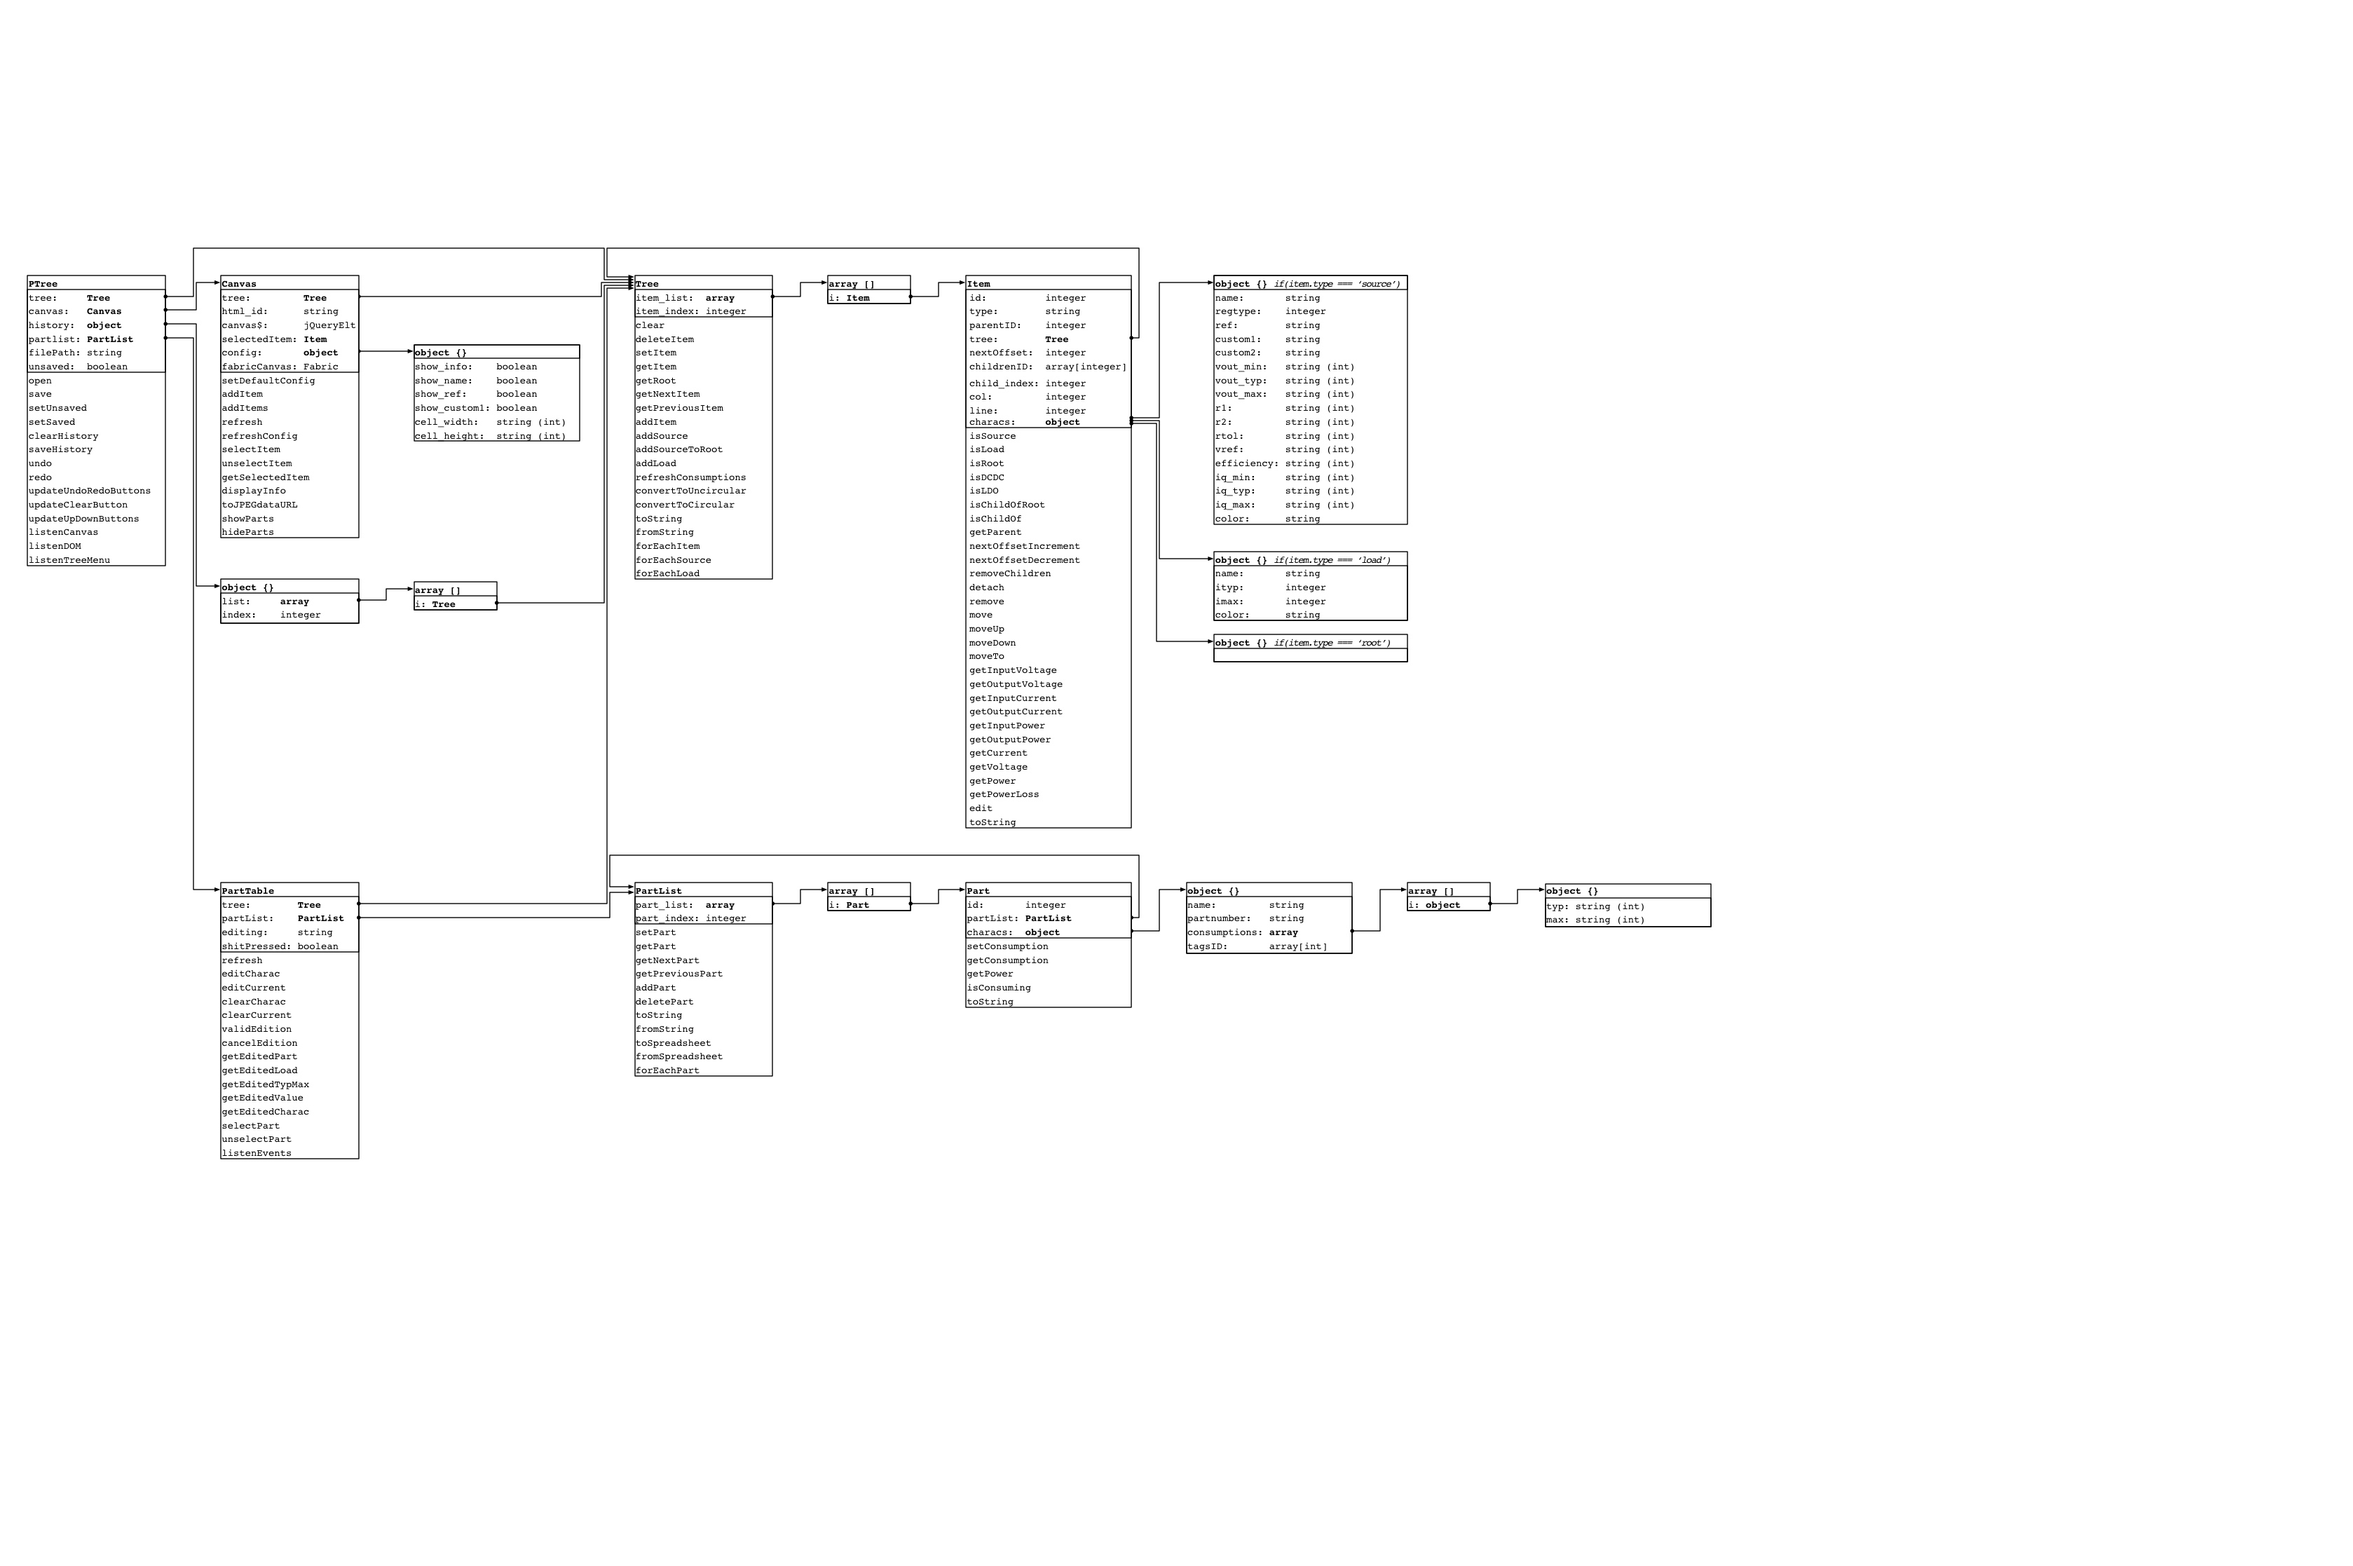
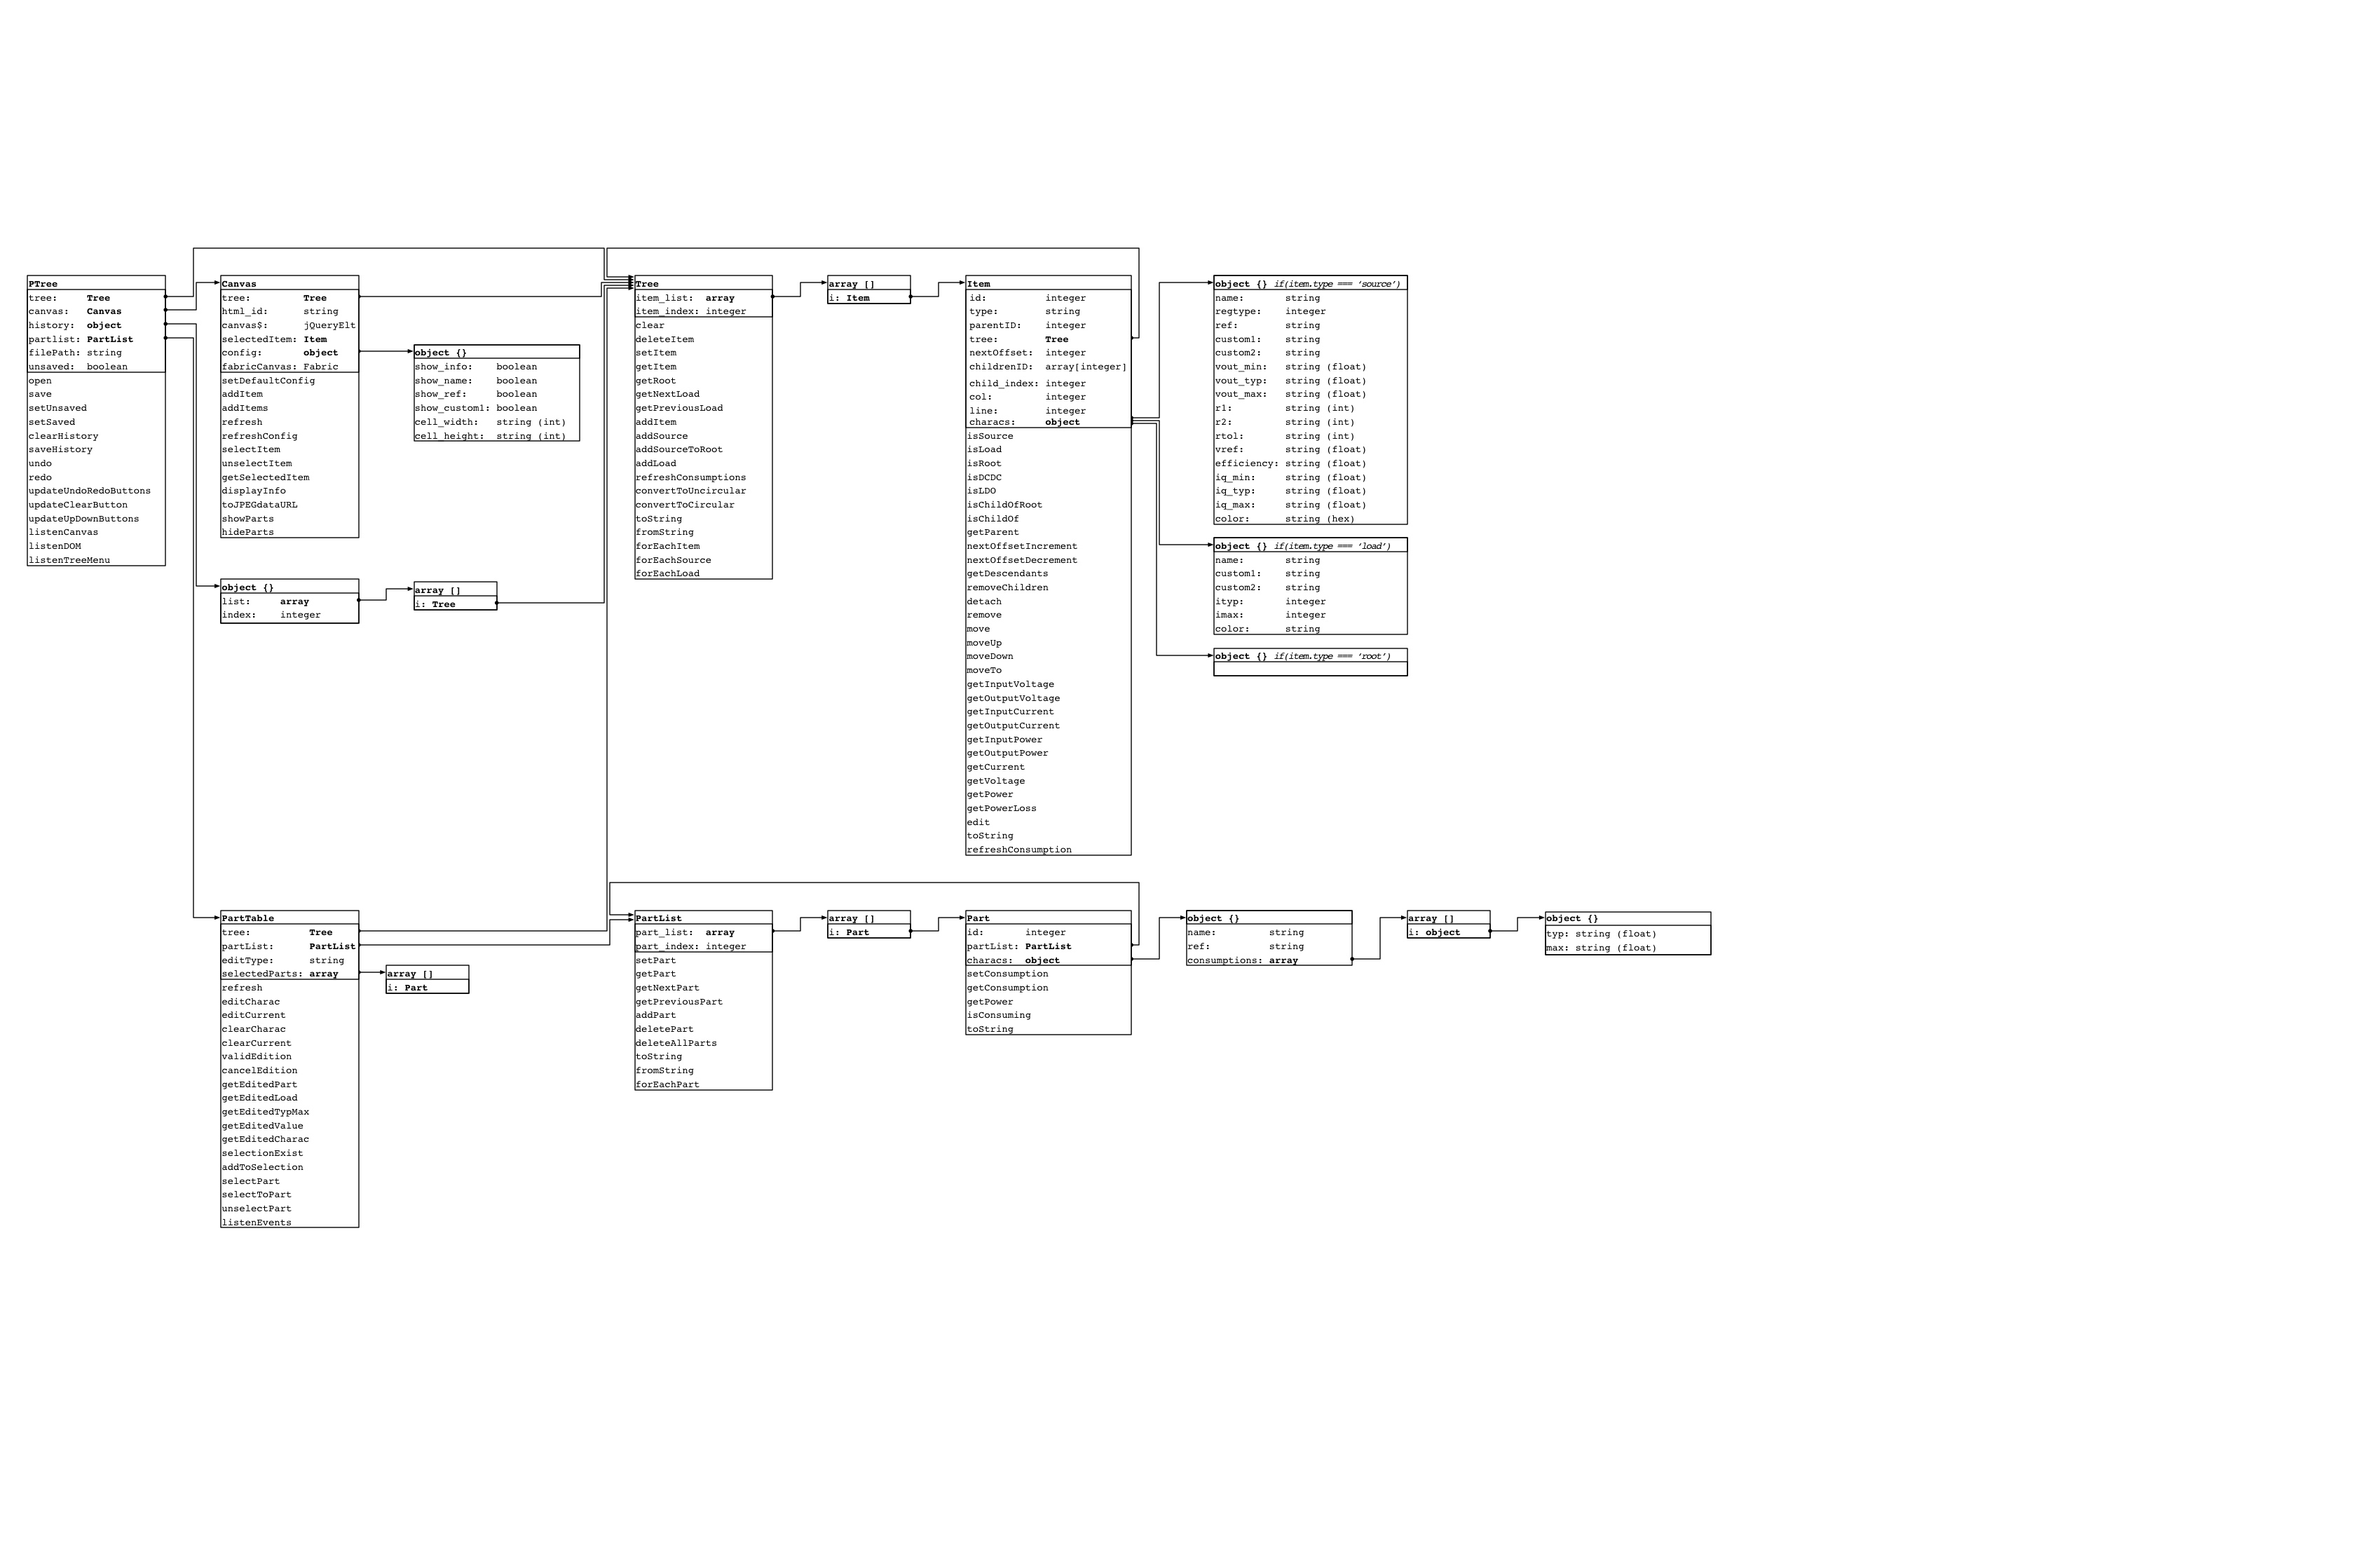
schematic update

diff --git a/js/obj.PartTable.js b/js/obj.PartTable.js
@@ -7,7 +7,7 @@
 var PartTable = function() {
    this.partList      = new PartList();
    this.tree          = new Tree();
-   this.editing       = null;
+   this.editType      = null;
    this.selectedParts = [];
 
    this.listenEvents();
@@ -71,7 +71,7 @@ PartTable.prototype.refresh = function() {
 // print a UI to edit a charac
 PartTable.prototype.editCharac = function(part, charac) {
    // if a previous element whas in edition
-   if ('charac' === this.editing) {
+   if ('charac' === this.editType) {
       // get the previous edited element
       let editedPart    = this.getEditedPart();
       let editedCharac  = this.getEditedCharac();
@@ -86,7 +86,7 @@ PartTable.prototype.editCharac = function(part, charac) {
    this.selectPart(part);
 
    // mark as editing
-   this.editing = 'charac';
+   this.editType = 'charac';
 
    // print an input element
    var value      = part.characs[charac];
@@ -101,7 +101,7 @@ PartTable.prototype.editCharac = function(part, charac) {
 // print a UI to edit a current
 PartTable.prototype.editCurrent = function(part, load, typmax) {
    // if a previous element whas in edition
-   if ('current' === this.editing) {
+   if ('current' === this.editType) {
       // get the previous edited element
       let editedPart   = this.getEditedPart();
       let editedLoad   = this.getEditedLoad();
@@ -116,7 +116,7 @@ PartTable.prototype.editCurrent = function(part, load, typmax) {
    this.selectPart(part);
 
    // mark as editing
-   this.editing = 'current';
+   this.editType = 'current';
 
    // print an input element
    var value      = part.getConsumption(load,typmax).toString();
@@ -144,7 +144,7 @@ PartTable.prototype.clearCharac = function(validate){
    $('.edition').parent().html(value);
    $('.partTable').trigger('update');
 
-   this.editing = null;
+   this.editType = null;
 };
 
 
@@ -171,16 +171,16 @@ PartTable.prototype.clearCurrent = function(validate){
    $(`tr[data-partid=${part.id}] > td.td_power.td_max`).html(round(power.max,3));
    $('.partTable').trigger('update');
 
-   this.editing = null;
+   this.editType = null;
 };
 
 
 // validate the occuring edition
 PartTable.prototype.validateEdition = function() {
-   if ('charac' === this.editing) {
+   if ('charac' === this.editType) {
       this.clearCharac(true);
    }
-   else if ('current' === this.editing) {
+   else if ('current' === this.editType) {
       this.clearCurrent(true);
    }
 };
@@ -188,10 +188,10 @@ PartTable.prototype.validateEdition = function() {
 
 // cancel the occuring edition
 PartTable.prototype.cancelEdition = function() {
-   if ('charac' === this.editing) {
+   if ('charac' === this.editType) {
       this.clearCharac(false);
    }
-   else if ('current' === this.editing) {
+   else if ('current' === this.editType) {
       this.clearCurrent(false);
    }
    this.unselectPart();
@@ -224,7 +224,7 @@ PartTable.prototype.getEditedTypMax = function() {
 PartTable.prototype.getEditedValue = function() {
    var value = $('.edition').val();
 
-   if ('current' === this.editing) {
+   if ('current' === this.editType) {
       value = parseFloat(value);
    }
 
@@ -241,6 +241,24 @@ PartTable.prototype.getEditedCharac = function() {
 // Return true if at least one part is selected
 PartTable.prototype.selectionExist = function() {
    return (this.selectedParts.length > 0);
+};
+
+
+// select the given part (add to the selection)
+PartTable.prototype.addToSelection = function(part) {
+   // validate any editon before selection
+   this.validateEdition();
+
+   // show the remove button differently if there was a seletion or not
+   if(this.selectionExist()) {
+      $('.removePart').show();
+   }
+   else {
+      $('.removePart').fadeIn(150);
+   }
+
+   this.selectedParts.push(part);
+   $(`tr[data-partid=${part.id}]`).addClass('selected');
 };
 
 
@@ -264,23 +282,6 @@ PartTable.prototype.selectPart = function(part) {
 
 };
 
-
-// select the given part (add to the selection)
-PartTable.prototype.addToSelection = function(part) {
-   // validate any editon before selection
-   this.validateEdition();
-
-   // show the remove button differently if there was a seletion or not
-   if(this.selectionExist()) {
-      $('.removePart').show();
-   }
-   else {
-      $('.removePart').fadeIn(150);
-   }
-
-   this.selectedParts.push(part);
-   $(`tr[data-partid=${part.id}]`).addClass('selected');
-};
 
 // select all parts between the given and the selected
 PartTable.prototype.selectToPart = function(part) {
@@ -558,20 +559,20 @@ PartTable.prototype.listenEvents = function() {
       // TAB (=> validate and edit next)
       else if (9 === e.keyCode) {
          event.preventDefault();
-         let part    = that.getEditedPart();
-         let load    = that.getEditedLoad();
-         var typmax  = that.getEditedTypMax();
-         var charac  = that.getEditedCharac();
-         var editing = that.editing;
+         let part     = that.getEditedPart();
+         let load     = that.getEditedLoad();
+         var typmax   = that.getEditedTypMax();
+         var charac   = that.getEditedCharac();
+         var editType = that.editType;
 
          // SHIFT+TAB = previous
          if(e.shiftKey) {
             // if editing the ref, jump to name
-            if('charac' === editing && 'ref' === charac) {
+            if('charac' === editType && 'ref' === charac) {
                that.editCharac(part, 'name');
             }
             // else if editing any cirrent
-            else if ('current' === editing) {
+            else if ('current' === editType) {
                // if the current is a max, jump to the typ of the same load
                if('max' === typmax) {
                   that.editCurrent(part, load, 'typ');
@@ -593,7 +594,7 @@ PartTable.prototype.listenEvents = function() {
          // TAB = next
          else {
             // if editing a charac
-            if('charac' === editing) {
+            if('charac' === editType) {
                // if editing the name, jump to the ref
                if('name' === charac) {
                   that.editCharac(part, 'ref');
@@ -605,7 +606,7 @@ PartTable.prototype.listenEvents = function() {
                }
             }
             // else if editing any current
-            else if ('current' === editing) {
+            else if ('current' === editType) {
                // if the current is a typ, jump to the max of the same load
                if('typ' === typmax) {
                   that.editCurrent(part, load, 'max');
